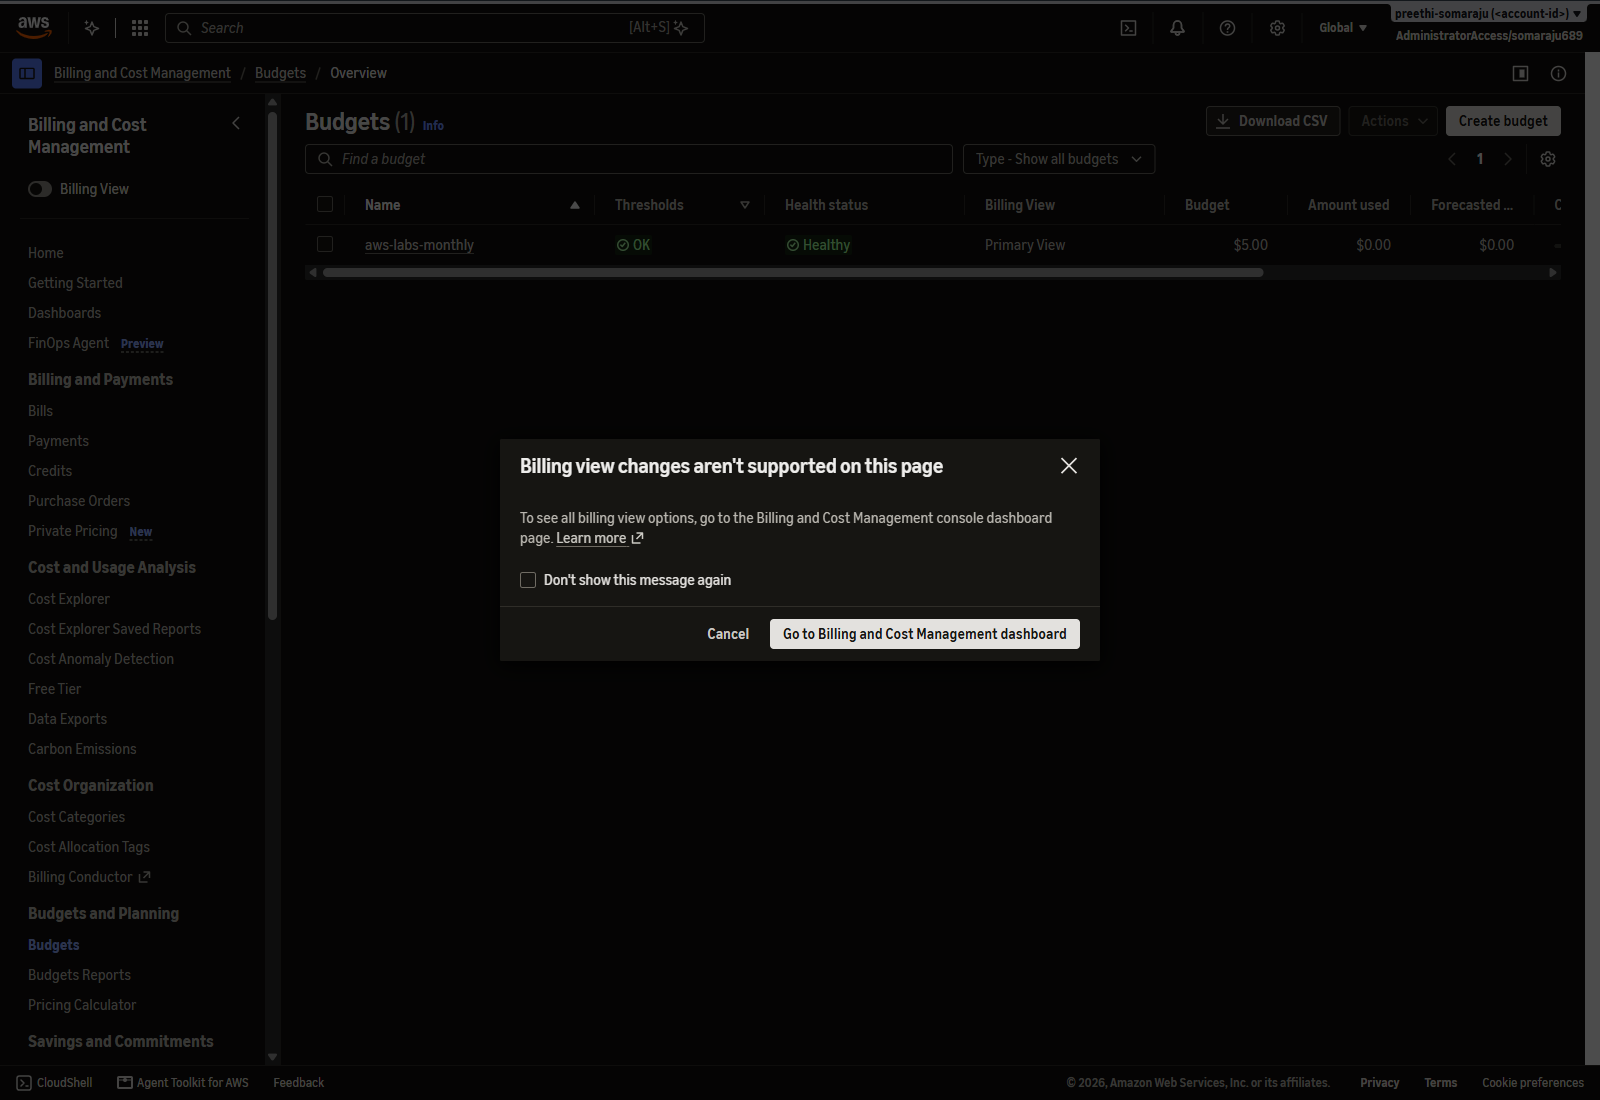
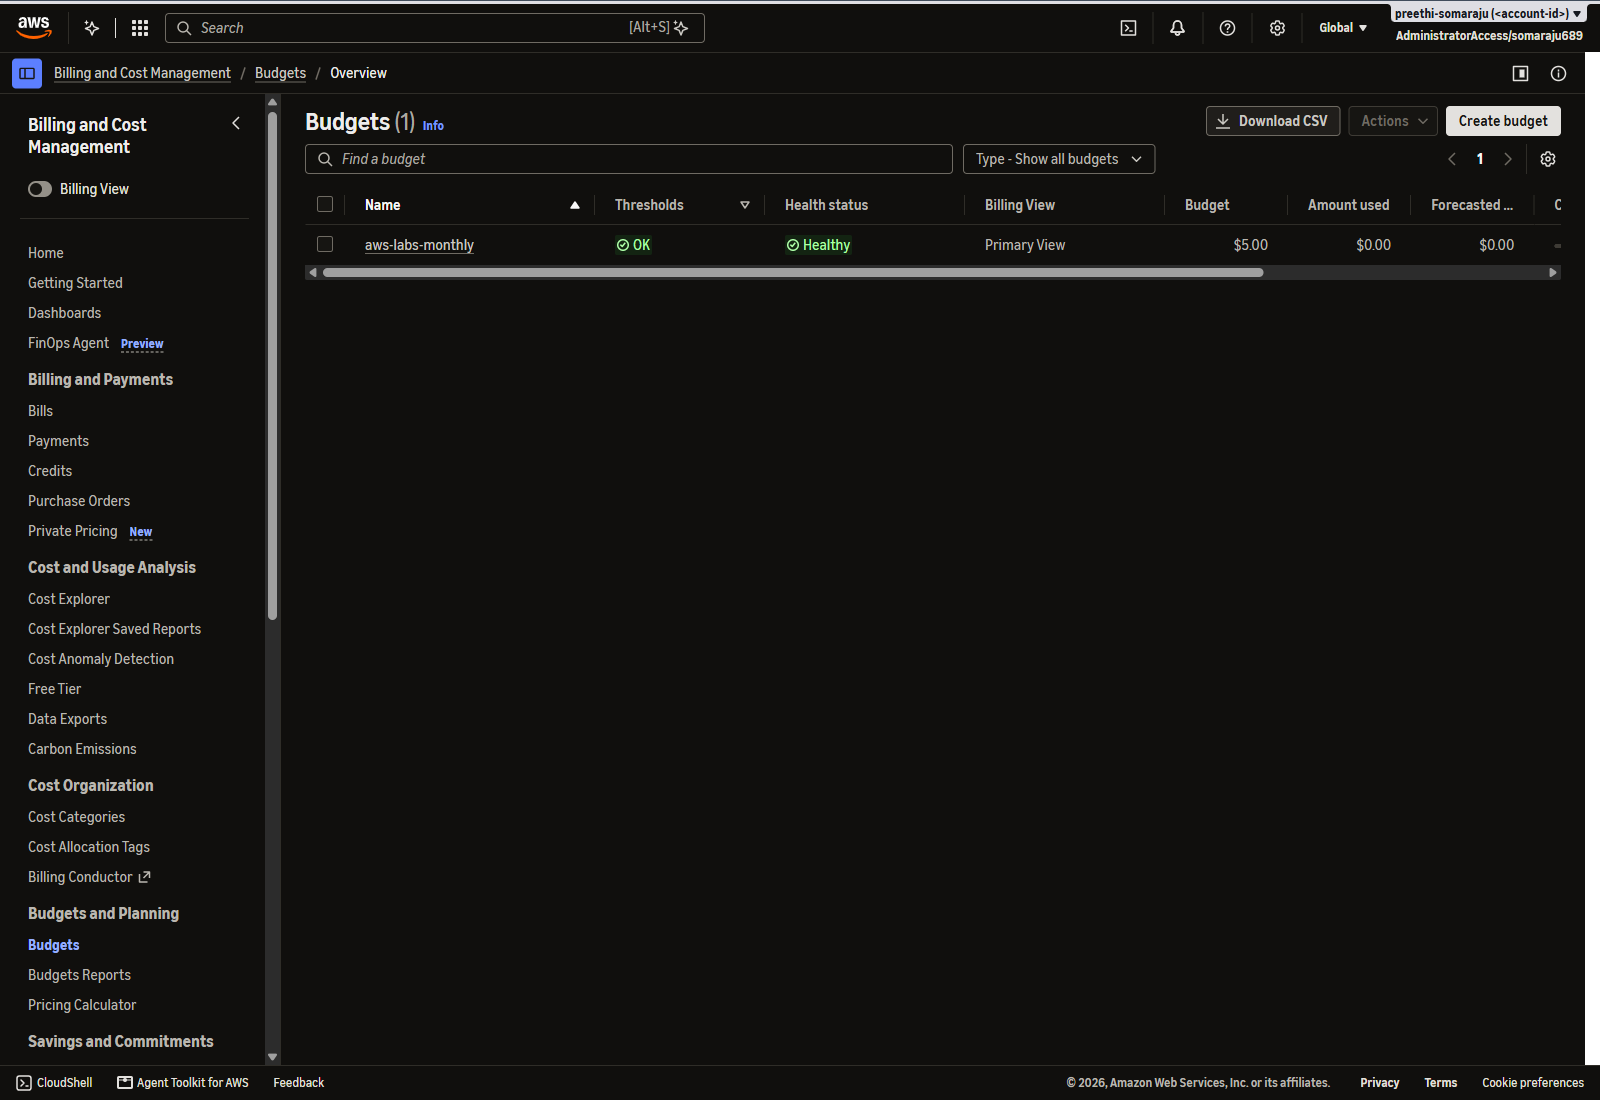
Dismiss modal dialogs before capture; recapture budget screenshot

diff --git a/scripts/cdp_shot.py b/scripts/cdp_shot.py
@@ -102,6 +102,17 @@ def main() -> int:
         '[role="tooltip"],[class*="tutorial"],[class*="walkthrough"],[class*="hotspot"],'
         + '[data-testid*="tutorial"],[id*="tutorial"]'
       ).forEach(e => { try { e.remove(); n++; } catch (err) {} });
+      // Modal dialogs sit above everything; close them before anything else.
+      document.querySelectorAll('[role="dialog"] button, [class*="modal"] button')
+        .forEach(b => {
+          const t = (b.textContent || "").trim().toLowerCase();
+          if (t === "cancel" || t === "close" || t === "ok" || t === "dismiss") {
+            try { b.click(); n++; } catch (e) {}
+          }
+        });
+      document.querySelectorAll('[role="dialog"],[class*="awsui_dialog"]')
+        .forEach(e => { try { e.remove(); n++; } catch (e2) {} });
+
       // Last resort: find the tour popover by its copy and drop its container.
       const marker = "You can access all AWS services here";
       document.querySelectorAll("div,section").forEach(e => {
